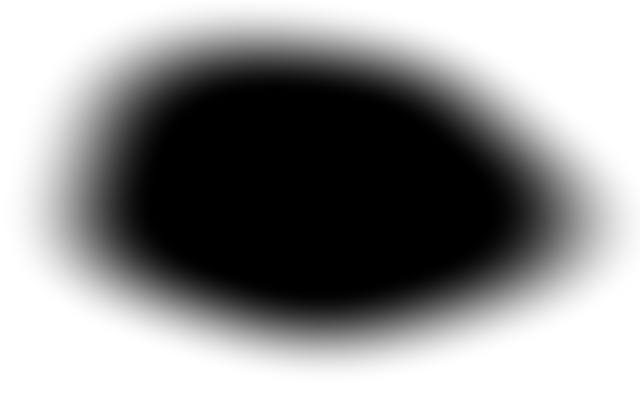
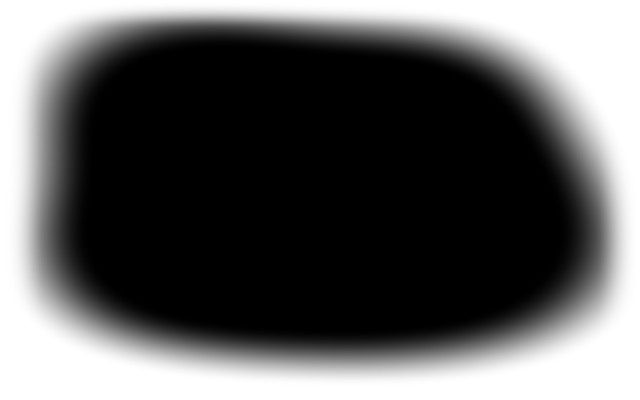
Updates post: keep more of each video; stronger, wider glow does the fade

diff --git a/updates/updates.css b/updates/updates.css
@@ -97,7 +97,7 @@ a { color: inherit; text-decoration-color: var(--accent); text-decoration-thickn
 .video-label.with-demo { color: var(--accent); }
 .video-label.with-demo::before { background: var(--accent); }
 .film-wrap { position: relative; }
-.film-glow { position: absolute; inset: 6%; background: center / cover no-repeat; filter: blur(60px) brightness(1.4); opacity: .2; pointer-events: none; }
+.film-glow { position: absolute; inset: -12%; background: center / 100% 100% no-repeat; filter: blur(50px) brightness(1.15); opacity: .6; pointer-events: none; }
 .film { position: relative; isolation: isolate;
   -webkit-mask: url("film-mask-a.png") center / 100% 100% no-repeat;
   mask: url("film-mask-a.png") center / 100% 100% no-repeat; }
